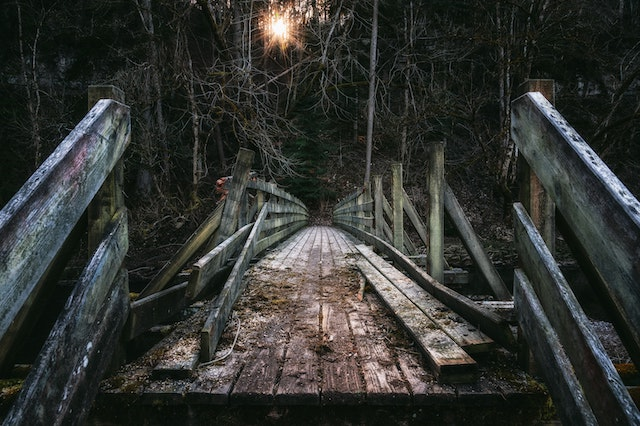
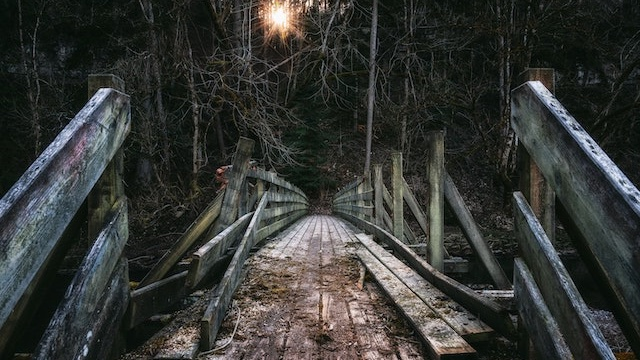
Adding aspect ration and image background

diff --git a/src/lib/components/Image.svelte b/src/lib/components/Image.svelte
@@ -1,5 +1,6 @@
 <script lang="ts">
 	export let alt: string;
+	export let aspectRatio: string;
 	export let caption: string | undefined = undefined;
 	export let source: string | undefined = undefined;
 	export let src: string;
@@ -8,7 +9,7 @@
 
 {#if source || caption}
 	<figure class="full grid">
-		<img {alt} class="offset" {src} />
+		<img {alt} class="offset" {src} style={`aspect-ratio: ${aspectRatio}`} />
 		<figcaption>
 			{#if caption}{caption}{/if}
 			{#if source}
@@ -34,7 +35,8 @@
 	}
 
 	img {
-		border-radius: var(--space-xs);
+		background-color: var(--theme-background-secondary);
+		border-radius: var(--space-xxs);
 		display: block;
 		width: 100%;
 	}

diff --git a/src/routes/blog/taking-the-hard-path.md b/src/routes/blog/taking-the-hard-path.md
@@ -11,7 +11,7 @@ published: 2022-02-20T23:00:00Z
   import Image from '$lib/components/Image.svelte';
 </script>
 
-<Image alt="A partially broken wooden bridge" caption="A challenging path" src="/images/wooden-path.jpg" source="https://unsplash.com/@tama66" />
+<Image alt="A partially broken wooden bridge" aspectRatio="16 / 9" caption="A challenging path" src="/images/wooden-path.jpg" source="https://unsplash.com/@tama66" />
 
 It only seems like yesterday I was [writing about my choice to leave Zone and join DAZN](/blog/next-chapter-zone-dazn).
 
@@ -27,7 +27,7 @@ It reminds me of President Kennedy's speech at Rice University's stadium in Hous
 
 > **We choose** to go to the Moon in this decade and do the other things, **not because they are easy**, but **because they are hard**; because **that goal will serve** to organize and measure **the best of our energies and skills**, because that challenge is one that we are **willing to accept**, one we are **unwilling to postpone**, and one **we intend to win**, and the others, too.
 
-<Image alt="President Kennedy" caption="President Kennedy delivering his &quot;We choose to go to the moon&quot; speech" src="/images/kennedy.jpg" />
+<Image alt="President Kennedy" aspectRatio="16 / 9" caption="President Kennedy delivering his &quot;We choose to go to the moon&quot; speech" src="/images/kennedy.jpg" />
 
 We often just do what's easy - that's not a bad thing. Nobody wants to fail, and that fear of failure can be a genuine hurdle to jump over. So it's only natural to seek comfort and stability in what you know rather than what you don't.
 
@@ -41,4 +41,4 @@ For this reason, I am so glad this job and the new experiences it brings has cha
 
 So, 7 months down, I cannot wait to see how the next year turns out.
 
-<Image alt="Me on the moon" caption="Next stop, the moon!" src="/images/moon.jpg" />
+<Image alt="Me on the moon" aspectRatio="16 / 9" caption="Next stop, the moon!" src="/images/moon.jpg" />

diff --git a/src/routes/blog/mindfulness.md b/src/routes/blog/mindfulness.md
@@ -20,7 +20,7 @@ It can be anything from a conversation that has happened to a conversation that 
 
 It is both a blessing and a curse. On one hand, it can help me understand a problem or dig into the finer points of an issue. It may mean my solutions appear solid, well thought out or I'm prepared for edge cases or failure. So, what's the negative?
 
-<Image alt="Animation of character awake on a bed" caption="Very awake" src="/images/sleep.gif" source="https://giphy.com/gifs/monday-bed-midnight-xUOrwihszfWZgSIHJK" />
+<Image alt="Animation of character awake on a bed" aspectRatio="480 / 296" caption="Very awake" src="/images/sleep.gif" source="https://giphy.com/gifs/monday-bed-midnight-xUOrwihszfWZgSIHJK" />
 
 Well, when everyone else is getting ready to fall into a blissful slumber, my brain kicks in. 100 miles an hour, rapid-fire thoughts, every direction, simultaneously.
 
@@ -56,7 +56,7 @@ There are many different ways to be mindful. You don't need to hum or chant. Jus
 
 #### Walking
 
-<Image alt="A person walking down a long highway" caption="Walking to clear your mind" src="/images/walk.jpg" source="https://unsplash.com/photos/ioyEITUD2G8" />
+<Image alt="A person walking down a long highway" aspectRatio="640 / 427" caption="Walking to clear your mind" src="/images/walk.jpg" source="https://unsplash.com/photos/ioyEITUD2G8" />
 
 Get up, get out! Even a 5 minutes walk can do it. As you walk, turn your senses up to max. Detect your surroundings with more than just your sight. Feel and hear the sounds as you step, what are you walking on? Hear the grass crinkle or gravel crunch underfoot. What can you smell? Can you feel the direction of the sun as it hits your skin, can you feel it change as you move. This might seem a little crazy, but the point of the walk is not to get from A to B, it is about being aware and present in that journey.
 
